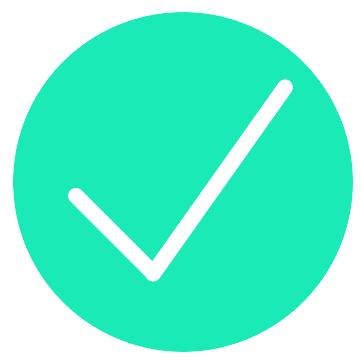
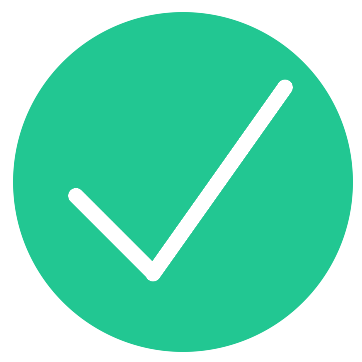
front Up up

diff --git a/app/assets/stylesheets/components/_flat_card.scss b/app/assets/stylesheets/components/_flat_card.scss
@@ -13,25 +13,39 @@
   border-radius: 5px;
   overflow: hidden;
   border: 1px solid #D8E2E1;
-  border-radius:3px;
   margin:0 0 20px;
   box-shadow: 3px 3px 6px 0 rgba(30, 30, 30, 0.1);
 }
 
 .flat-card {
  a {
-    color:inherit;
-    text-decoration: underline;
- }
+  position: relative;
+  margin-bottom: 2em;
+  font-weight: 900;
+  z-index: 1;
+  margin-top: 5px;
+  color:$dark-blue;
+  }
+
+  a:after {
+  content: "";
+  position: absolute;
+  top: 10px;
+  left: 0px;
+  width: 100%;
+  height: 6px;
+  background-color: RGBA(46, 197, 144, 0.70);
+  z-index: -1;
+  }
 }
 
 
 .flat-card > div[class^="flat-card"]{
-  display:flex;
-  flex-direction:column;
-  align-items:center;
-  // justify-content:center;
-  width:50%;
+  display: flex;
+  flex-direction: column;
+  width: 50%;
+  padding-top: 16px;
+  padding-left: 35px;
 }
 .flat-card .flat-card-info{
   position:relative;

diff --git a/app/assets/stylesheets/config/_colors.scss b/app/assets/stylesheets/config/_colors.scss
@@ -6,7 +6,7 @@ $dark-blue: #1D536A;
 $light-blue: #3F97EB;
 $yellow: #FDB631;
 $orange: #E67E22;
-$light-green: #00C78E;
+$light-green: #2EC590;
 //$light-green: #3DEAB9;
 $gray: #333333;
 $light-gray: #E7E7E7;
